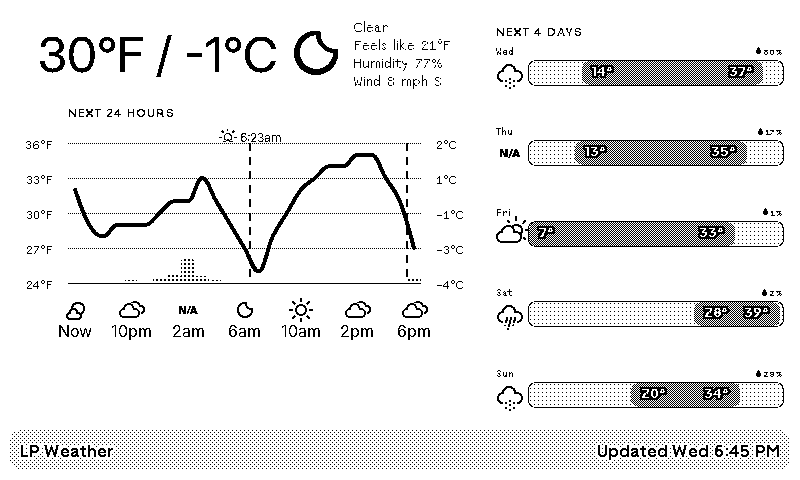
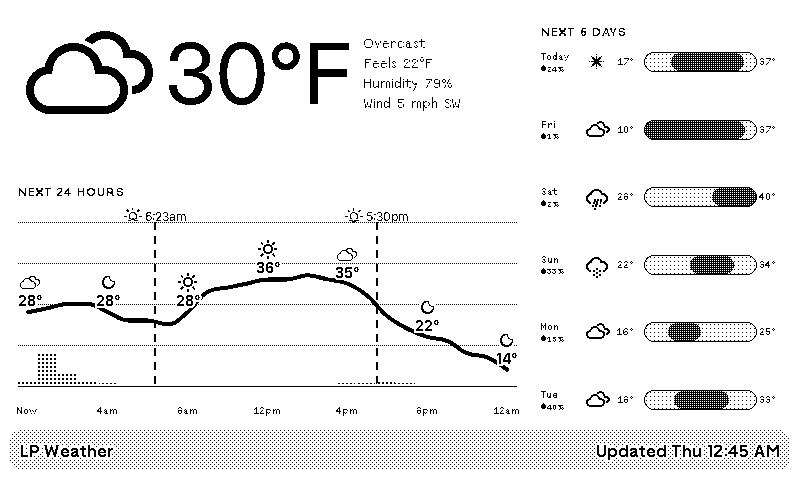
update docs

diff --git a/plugins/weather/CLAUDE.md b/plugins/weather/CLAUDE.md
@@ -1,7 +1,7 @@
 # Weather Plugin
 
-Displays current conditions, a 24-hour temperature chart, and a 5-day forecast
-using the [Open-Meteo](https://open-meteo.com/) free API (no key required).
+Displays current conditions, a 24-hour temperature chart, and a 6-day forecast
+using a custom WeatherProxy Azure Function that fetches and pre-processes Open-Meteo data.
 
 ## File Structure
 
@@ -9,46 +9,99 @@ using the [Open-Meteo](https://open-meteo.com/) free API (no key required).
 plugins/weather/
   .trmnlp.yml         # trmnlp local dev config (static or live data)
   CLAUDE.md           # this file
-  fields.txt          # API response field documentation
+  fields.txt          # API response field documentation (raw Open-Meteo format, for reference)
+  api/                # WeatherProxy Azure Function source (.NET 10)
+  assets/             # local copies of self-hosted files + sample API response JSON
   src/
     settings.yml      # plugin config and polling URL (must be in src/)
     shared.liquid     # all reusable templates
-    full.liquid
-    half_horizontal.liquid  # TODO
-    half_vertical.liquid    # TODO
-    quadrant.liquid         # TODO
+    full.liquid       # full screen layout (only layout implemented)
+    # half_horizontal.liquid  TODO
+    # half_vertical.liquid    TODO
+    # quadrant.liquid         TODO
 ```
 
 ## Local Preview
 
 See repo root `CLAUDE.md` for preview options (`trmnlp serve` vs static build).
 
-To use static sample data instead of live API, add a `data:` block to `.trmnlp.yml` pointing to a cached JSON file (e.g. `data-2026-02-24T18-30.json`). The filename encodes the `current.time` value to use as "now" when testing.
+To use static sample data instead of live API, configure a `data:` block in `.trmnlp.yml` pointing to a cached JSON file (e.g. `assets/data-2026-02-24T18-30.json`). The filename encodes the `current.time` value to use as "now" when testing.
 
 ## External Dependencies
 
-### API: Open-Meteo
+### API: WeatherProxy (Azure Functions)
 
-- **URL**: https://api.open-meteo.com/v1/forecast
-- **Docs**: https://open-meteo.com/en/docs
-- **Auth**: None (free, no API key)
-- **Params**: Boston (42.36, -71.06), °F, mph, `forecast_hours=25`, `forecast_days=5`
+The plugin polls a custom Azure Function instead of Open-Meteo directly. The proxy handles WMO code mapping (condition strings, icon CSS classes, wind direction labels) and returns a pre-processed JSON object.
 
-Full polling URL (also in `src/settings.yml`):
+- **Deployed URL**: `https://trmnl-weather.azurewebsites.net/api/forecast?latitude={lat}&longitude={lon}`
+- **Source**: `plugins/weather/api/` — .NET 10 Azure Functions v4 app
+- **Auth**: None (anonymous)
+- **Query params**: `fake=true` or `fake=1` to inject randomized precipitation values (useful for testing chart rendering)
+
+WeatherProxy calls Open-Meteo with:
 ```
-https://api.open-meteo.com/v1/forecast?latitude=42.36&longitude=-71.06
+https://api.open-meteo.com/v1/forecast?latitude={lat}&longitude={lon}
   &current=temperature_2m,apparent_temperature,relative_humidity_2m,
            precipitation,weather_code,wind_speed_10m,wind_direction_10m,is_day
   &hourly=temperature_2m,weather_code,precipitation_probability
   &daily=temperature_2m_max,temperature_2m_min,weather_code,precipitation_probability_max,
          sunrise,sunset
   &temperature_unit=fahrenheit&wind_speed_unit=mph&precipitation_unit=inch
-  &timezone=auto&forecast_hours=25&forecast_days=5
+  &timezone=auto&forecast_hours=25&forecast_days=6
 ```
 
-Response: `hourly` has 25 entries (current hour + 24h), `daily` has 5 entries (today + 4 days).
-Weather conditions are returned as **WMO weather codes** in `current.weather_code`, `hourly.weather_code`, and `daily.weather_code`.
-`daily.sunrise` and `daily.sunset` are ISO 8601 timestamps used for day/night icon selection.
+#### WeatherProxy Response Shape
+
+```json
+{
+  "current": {
+    "time": "2026-02-25T14:00",
+    "temperature_f": 35,
+    "temperature_c": 2,
+    "apparent_temperature_f": 28,
+    "apparent_temperature_c": -2,
+    "relative_humidity": 72,
+    "precipitation_in": 0.0,
+    "weather_code": 3,
+    "condition": "Overcast",
+    "icon_class": "wi wi-cloudy",
+    "wind_speed_mph": 12,
+    "wind_direction_deg": 270,
+    "wind_direction": "W",
+    "is_day": true
+  },
+  "hourly": {
+    "entries": [
+      {
+        "time": "2026-02-25T14:00",
+        "label": "Now",
+        "temperature_f": 35,
+        "precipitation_probability": 10,
+        "weather_code": 3,
+        "icon_class": "wi wi-cloudy",
+        "is_day": true
+      }
+      // ... 24 more entries
+    ]
+  },
+  "daily": {
+    "entries": [
+      {
+        "date": "2026-02-25",
+        "high_f": 38,
+        "low_f": 28,
+        "weather_code": 61,
+        "condition": "Light rain",
+        "icon_class": "wi wi-rain",
+        "precipitation_probability": 80,
+        "sunrise": "2026-02-25T06:30",
+        "sunset": "2026-02-25T17:35"
+      }
+      // ... 5 more entries (6 total)
+    ]
+  }
+}
+```
 
 ### JS Library: Highcharts
 
@@ -64,9 +117,9 @@ Weather conditions are returned as **WMO weather codes** in `current.weather_cod
 - **Demo**: https://erikflowers.github.io/weather-icons/
 - **License**: SIL OFL 1.1 (font), MIT (CSS/code)
 - **Self-hosted**: `https://trmnlplugins.blob.core.windows.net/assets/weather-icons.woff2` (~44 KB)
-- **Usage**: CSS class `wi wi-wmo4680-{wmo_code}` maps directly to WMO weather codes
-- **Day/night**: `wi wi-day-*` / `wi wi-night-*` variants for codes 0–2, determined by comparing hour timestamps against `daily.sunrise`/`daily.sunset`
-- **Where used**: Current conditions icon, hourly chart x-axis labels, daily forecast bars
+- **Usage**: CSS class from `icon_class` field (e.g. `wi wi-day-sunny`, `wi wi-night-clear`, `wi wi-rain`)
+- **Day/night variants** for WMO codes 0–2 are pre-computed by WeatherProxy using sunrise/sunset data
+- **Where used**: Current conditions icon, hourly chart x-axis labels (from `hourly.entries[].icon_class`), daily forecast bars (from `daily.entries[].icon_class`)
 
 ### Static Asset Hosting: Azure Blob Storage
 
@@ -83,10 +136,10 @@ Weather conditions are returned as **WMO weather codes** in `current.weather_cod
 The two-column split is at the outermost level so the right column spans full height:
 
 ```
-[ left column (62%)               | right column (38%)      ]
+[ left column (68%)               | right column (32%)      ]
 [   weather_current_compact       |                         ]
 [   weather_hourly_chart          | weather_daily_bars_vert |
-[                                 | (full height)           ]
+[                                 | (full height, 6 days)   ]
 [           title_bar (full width)                         ]
 ```
 
@@ -96,58 +149,50 @@ All logic lives in `shared.liquid` as `{% template %}` blocks:
 
 | Template | Purpose |
 |----------|---------|
-| `weather_current` | Current conditions (full-width): location, temp °F, feels like, humidity, wind |
 | `weather_current_compact` | Current conditions (left-column, centered): temp °F/°C + weather icon + details |
 | `weather_hourly_chart` | Highcharts spline (temp °F) + column (precip %) for next 24h, weather icons on x-axis, sunrise/sunset vertical lines |
-| `weather_daily_bars` | 5-day CSS range bars (horizontal layout), °F only |
-| `weather_daily_bars_vertical` | 5-day CSS range bars (vertical layout for right column), weather icons next to bars, labels inside bars |
+| `weather_daily_bars_vertical` | 6-day CSS range bars (vertical layout for right column), weather icons next to bars, labels inside bars |
 | `title_bar` | Standard bottom bar with day + time |
 
 ## Data Access
 
-Open-Meteo returns a JSON object (not an array). trmnlp injects object keys as **top-level
-variables**, not under `data`. So templates and layout files must use `current`, `hourly`,
-`daily` directly — **not** `data.current`, `data.hourly`, `data.daily`.
+The WeatherProxy returns a JSON object. trmnlp injects object keys as **top-level variables**,
+not under `data`. Templates use `current`, `hourly`, `daily` directly — not `data.current` etc.
 
 This is different from JSON:API array responses (like MBTA) where the array becomes `data`.
 
 Layout files pass these directly to shared templates:
 ```liquid
-{% render "weather_current", current: current, ... %}
-{% render "weather_hourly_chart", hourly: hourly, daily: daily, current_time: current.time, ... %}
-{% render "weather_daily_bars", daily: daily, ... %}
+{% render "weather_current_compact", current: current %}
+{% render "weather_hourly_chart", hourly: hourly, daily: daily, current_time: current.time, chart_height: 230 %}
+{% render "weather_daily_bars_vertical", daily_entries: daily.entries, num_days: 6 %}
 ```
+
+Key access patterns:
+- `current.temperature_f`, `current.condition`, `current.icon_class`, `current.is_day`
+- `hourly.entries` — array of 25 hourly entries (current hour + 24h ahead)
+- `daily.entries` — array of 6 daily entries (today + 5 days)
+- Icon classes already include day/night variant (e.g. `wi wi-day-sunny`)
 
 ## Key Implementation Notes
 
-**WMO weather codes** → condition label strings are handled via `if/elsif` chains in
-`weather_current` and `weather_current_compact` (duplicated due to Liquid template scoping).
+**Icon classes** are pre-computed by WeatherProxy (`WmoCodeMap.GetIconClass`), so Liquid templates
+use `entry.icon_class` directly — no WMO-to-icon mapping needed in templates.
 
-**WMO-to-icon mapping** is implemented in three places (Liquid template scoping prevents sharing):
-- `weather_current_compact`: Liquid `if/elsif` chain with day/night via `current.is_day`
-- `weather_hourly_chart`: JS `wmoIcon(code, night)` function with day/night via `daily.sunrise`/`daily.sunset`
-- `weather_daily_bars_vertical`: Liquid `if/elsif` chain, day icons only (forecast context)
+**Condition labels** (`current.condition`, `daily.entries[].condition`) are also pre-computed
+by WeatherProxy.
 
-**Highcharts**: Script tag must be inside the template block (not in the layout file):
-```liquid
-<script src="https://trmnl.com/js/highcharts/12.3.0/highcharts.js"></script>
-```
+**Highcharts**: Script tag must be inside the template block (not in the layout file).
 Chart has three Y-axes: `yAxis[0]` = °F (left), `yAxis[1]` = precip % 0–100 (hidden), `yAxis[2]` = °C (right, linked to yAxis[0]).
 Chart margin: `margin: [10, 58, 68, 58]` (extra bottom space for icon+text x-axis labels).
 
 **Hourly chart features**:
-- Weather icons on x-axis labels (every 4 hours) with day/night variants
-- Sunrise/sunset dashed vertical plotLines with labeled times
-- Day/night determined by comparing `hourTimes[i]` against `sunEvents[].rise`/`.set`
+- Weather icons on x-axis labels (every 4 hours) using `entry.icon_class`
+- Sunrise/sunset dashed vertical plotLines from `daily.entries[0].sunrise`/`.sunset`
+- Day/night already resolved in `entry.is_day`
 
-**Hourly slicing**: API returns 25 entries (`forecast_hours=25`). Find the current hour index by
-comparing `hourly.time[i]` (first 13 chars) against `current.time` (first 13 chars), then
-use `offset: start_index limit: 25` on a second loop.
-
-**Forecast bars** (`weather_daily_bars`): Show days 1–5 (skip index 0 = today).
-**Vertical forecast bars** (`weather_daily_bars_vertical`): Show all days starting from index 0, with weather icons to the left of each bar.
-
-Bar position computed as:
+**Vertical forecast bars** (`weather_daily_bars_vertical`): Shows all 6 days from `daily.entries`.
+Bar widths computed from overall min/max across all days:
 ```liquid
 {% assign left_pct = d_low | minus: overall_min | times: 100 | divided_by: range %}
 {% assign width_pct = d_high | minus: d_low | times: 100 | divided_by: range | at_least: 1 %}

diff --git a/CLAUDE.md b/CLAUDE.md
@@ -28,6 +28,8 @@ plugins/<name>/
     quadrant.liquid
 ```
 
+Not all plugins implement every layout. For example, the weather plugin currently only has `full.liquid` and `shared.liquid`; the other layouts are TODOs.
+
 Key `settings.yml` fields:
 - `strategy`: Data fetching method (`polling` or `webhook`)
 - `polling_url`: API endpoint to fetch data from
@@ -56,10 +58,12 @@ Displays service alerts from the Massachusetts Bay Transportation Authority (MBT
 - Features: Displays alerts sorted by severity, shows "No current alerts" when empty
 
 ### plugins/weather
-Displays current conditions, a 24-hour temperature chart, and a 5-day forecast with weather icons throughout.
-- API: Open-Meteo free forecast API (no key required), configurable lat/lon (default Boston 42.36°N, 71.06°W), °F/mph
-- Full layout: two-column at the outermost level — left column (62%): compact current conditions + hourly Highcharts chart with icons and sunrise/sunset lines; right column (38%): vertical 5-day forecast bars spanning full height
-- Icons: Erik Flowers Weather Icons font, WMO code mapping with day/night variants via sunrise/sunset data
+Displays current conditions, a 24-hour temperature chart, and a 6-day forecast with weather icons throughout.
+- API: Custom WeatherProxy Azure Function (`https://trmnl-weather.azurewebsites.net/api/forecast`) that calls Open-Meteo and pre-processes the response; configurable lat/lon (default Boston 42.36°N, 71.06°W)
+- WeatherProxy source: `plugins/weather/api/` — .NET 10 Azure Functions v4 app that fetches Open-Meteo, maps WMO codes to condition labels and icon classes, and returns a simplified JSON response
+- Full layout: two-column at the outermost level — left column (68%): compact current conditions + hourly Highcharts chart with icons and sunrise/sunset lines; right column (32%): vertical 6-day forecast bars spanning full height
+- Icons: Erik Flowers Weather Icons font, WMO code mapping with day/night variants; icon class pre-computed by WeatherProxy (not in Liquid templates)
+- Only `full.liquid` is implemented; `half_horizontal`, `half_vertical`, and `quadrant` are TODOs
 
 ## Tools (`./tools/`)
 
@@ -89,6 +93,11 @@ Fetches the current TRMNL screen image and displays it in Sixel format (black/wh
 .NET 9 app that fetches and displays the current TRMNL screen image in Sixel (full color).
 - Uses [SixPix](https://www.nuget.org/packages/SixPix) NuGet package
 - Run: `dotnet run --project tools/Trmnl.Cli/Trmnl.Cli.csproj`
+
+### dither.py
+Converts a screenshot PNG to 1-bit using Floyd-Steinberg dithering, to check how colors/grays will render on the e-ink display.
+- Run: `python3 tools/dither.py plugins/<name>/render.png`
+- Output: `plugins/<name>/render-1bit.png`
 
 ### Credentials
 `Get-Trmnl-Image.ps1` and `Trmnl.Cli` require:
@@ -177,6 +186,10 @@ Optionally, convert to 1-bit using Floyd-Steinberg dithering to check how colors
 python3 tools/dither.py plugins/<name>/render.png
 # outputs plugins/<name>/render-1bit.png
 ```
+
+## Assets (`./assets/`)
+
+- `full-template.pdn` — Paint.NET template file for creating plugin screenshots at the correct 800×480 dimensions
 
 ## Skills
 

diff --git a/README.md b/README.md
@@ -12,7 +12,7 @@ Displays service alerts from the Massachusetts Bay Transportation Authority (MBT
 
 ### [Weather](./plugins/weather)
 
-Displays current conditions, 24-hour temperature/precipitation chart, and multi-day forecast with weather icons.
+Displays current conditions, 24-hour temperature/precipitation chart, and 6-day forecast with weather icons.
 
 ![Weather](./plugins/weather/screenshot.png)
 
@@ -63,6 +63,7 @@ The `--screenshot` flag opens `full.html` in Edge at 800×480, waits 3 seconds f
 ## Tools
 
 - **[build-preview.sh](./tools/build-preview.sh)** - Build static HTML previews for any plugin (wraps `trmnlp build` output with TRMNL screen shell); `--screenshot` flag also captures `render.png` via playwright-cli
+- **[dither.py](./tools/dither.py)** - Convert a screenshot PNG to 1-bit using Floyd-Steinberg dithering (outputs `render-1bit.png`)
 - **[Get-Trmnl-Image.ps1](./tools/Get-Trmnl-Image.ps1)** - Fetch current TRMNL screen image and display in Sixel format (black/white)
 - **[Trmnl.Cli](./tools/Trmnl.Cli/)** - .NET 9 app that fetches and displays the current screen image in Sixel (full color)
 
